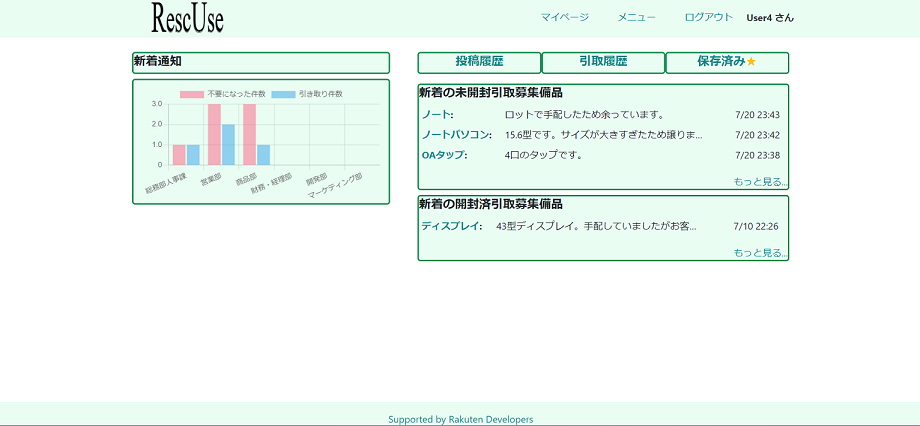
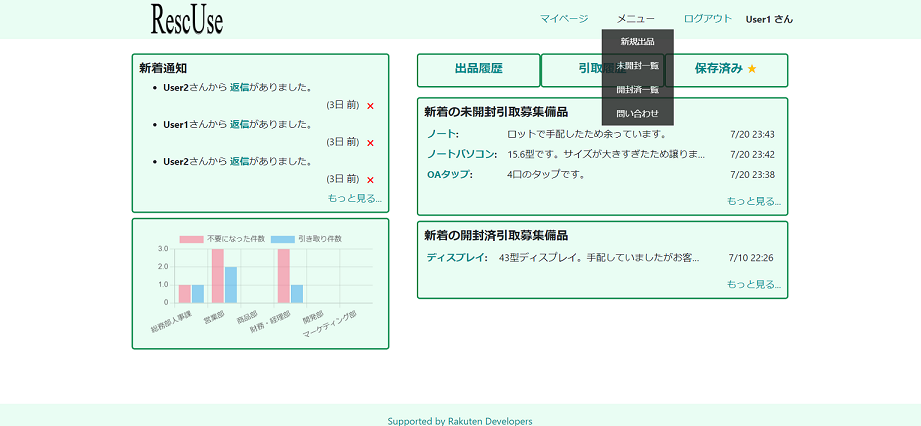
[update]layout/readme

diff --git a/app/javascript/stylesheets/mystyle.scss b/app/javascript/stylesheets/mystyle.scss
@@ -5,7 +5,7 @@ a {
 .mypage-content {
   border: 3px solid rgb(26,146,86);
   border-radius: 5px;
-  padding: px;
+  padding: 10px;
   margin: 8px;
   background-color: #E9FDF3;
 }

diff --git a/app/controllers/public/products_controller.rb b/app/controllers/public/products_controller.rb
@@ -1,5 +1,6 @@
 class Public::ProductsController < ApplicationController
   before_action :authenticate_user!
+  before_action :is_matching_login_user, only: [:edit, :update]
 
   def new_index
     @products = Product.where(is_used:"false", is_closed:"false").page(params[:page])
@@ -95,10 +96,17 @@ class Public::ProductsController < ApplicationController
 
   private
 
-  def product_params
-  params.require(:product).permit(:giver_id, :name, :detail_page, :information, :price, :count,
-  :is_closed, :is_used, :taker_id, tag_ids: [])
-  end
+    def product_params
+    params.require(:product).permit(:giver_id, :name, :detail_page, :information, :price, :count,
+    :is_closed, :is_used, :taker_id, tag_ids: [])
+    end
+    
+    def is_matching_login_user
+      user = User.find(params[:id])
+      unless user.id == current_user.id
+        redirect_to post_images_path
+      end
+    end
 
 
 end

diff --git a/app/controllers/public/comments_controller.rb b/app/controllers/public/comments_controller.rb
@@ -1,8 +1,6 @@
 class Public::CommentsController < ApplicationController
     before_action :authenticate_user!
-
-  def index
-  end
+    before_action :is_matching_login_user, only: [:destroy]
 
   def create
     @product = Product.find(params[:product_id])
@@ -28,10 +26,6 @@ class Public::CommentsController < ApplicationController
   end
   
 
-  def show
-  end
-
-
   def destroy
     @product = Product.find(params[:product_id])
     @comment = Comment.find(params[:id])
@@ -43,9 +37,16 @@ class Public::CommentsController < ApplicationController
     end
   end
 
-   private
+  private
     def comment_params
       params.require(:comment).permit(:body, :user_id, :product_id, :parent_id)
+    end
+    
+    def is_matching_login_user
+      user = User.find(params[:id])
+      unless user.id == current_user.id
+        redirect_to post_images_path
+      end
     end
 
 end

diff --git a/README.md b/README.md
@@ -1,5 +1,5 @@
 # RescUse
-![マイページ](app/assets/images/readme/README3.png)
+![マイページ](app/assets/images/readme/README1.png)
 ![詳細ページ](app/assets/images/readme/README2.png)
 
 ## サイト概要
